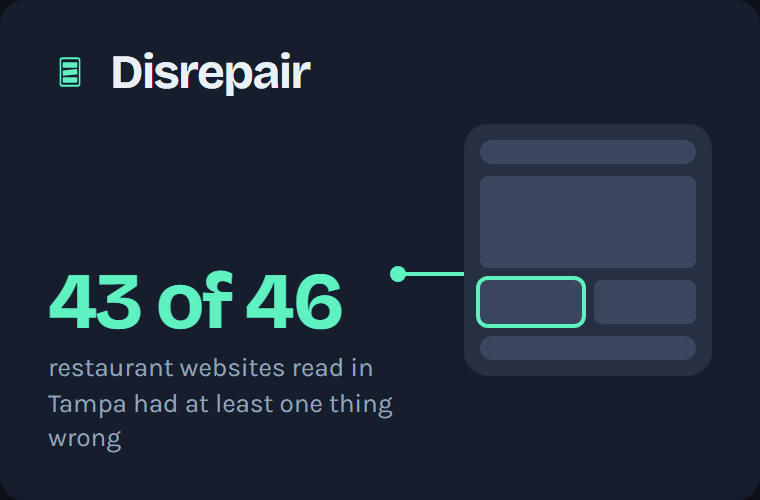
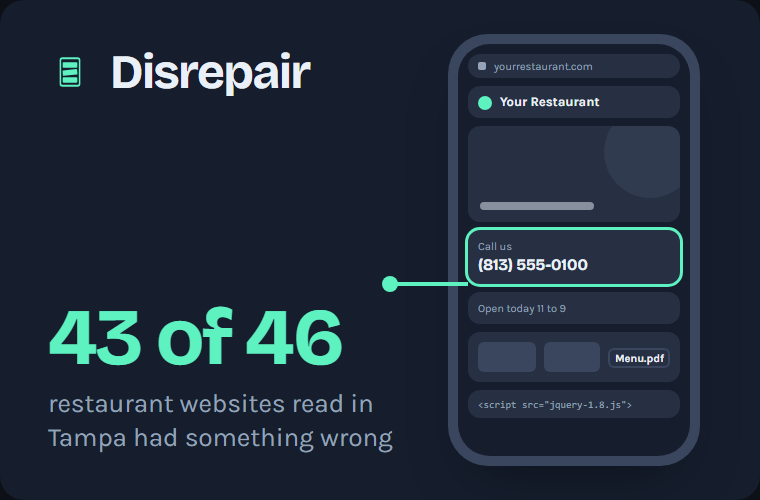
Show the phone itself on the Disrepair card

diff --git a/README.md b/README.md
@@ -40,7 +40,7 @@ Most reporting in local search is a screenshot taken from the owner's own shop, 
       <a href="https://candyflex.github.io/disrepair/">
         <picture>
           <source media="(prefers-color-scheme: dark)" srcset="assets/disrepair-dark.png">
-          <img src="assets/disrepair-light.png" width="100%" alt="Disrepair: a small website drawing with one part flagged, beside the count 43 of 46 restaurant websites read in Tampa had at least one thing wrong">
+          <img src="assets/disrepair-light.png" width="100%" alt="Disrepair: a small restaurant website shown on a phone, with a line pointing at a phone number that cannot be tapped, beside the count 43 of 46 restaurant websites read in Tampa had something wrong">
         </picture>
       </a>
     </td>
